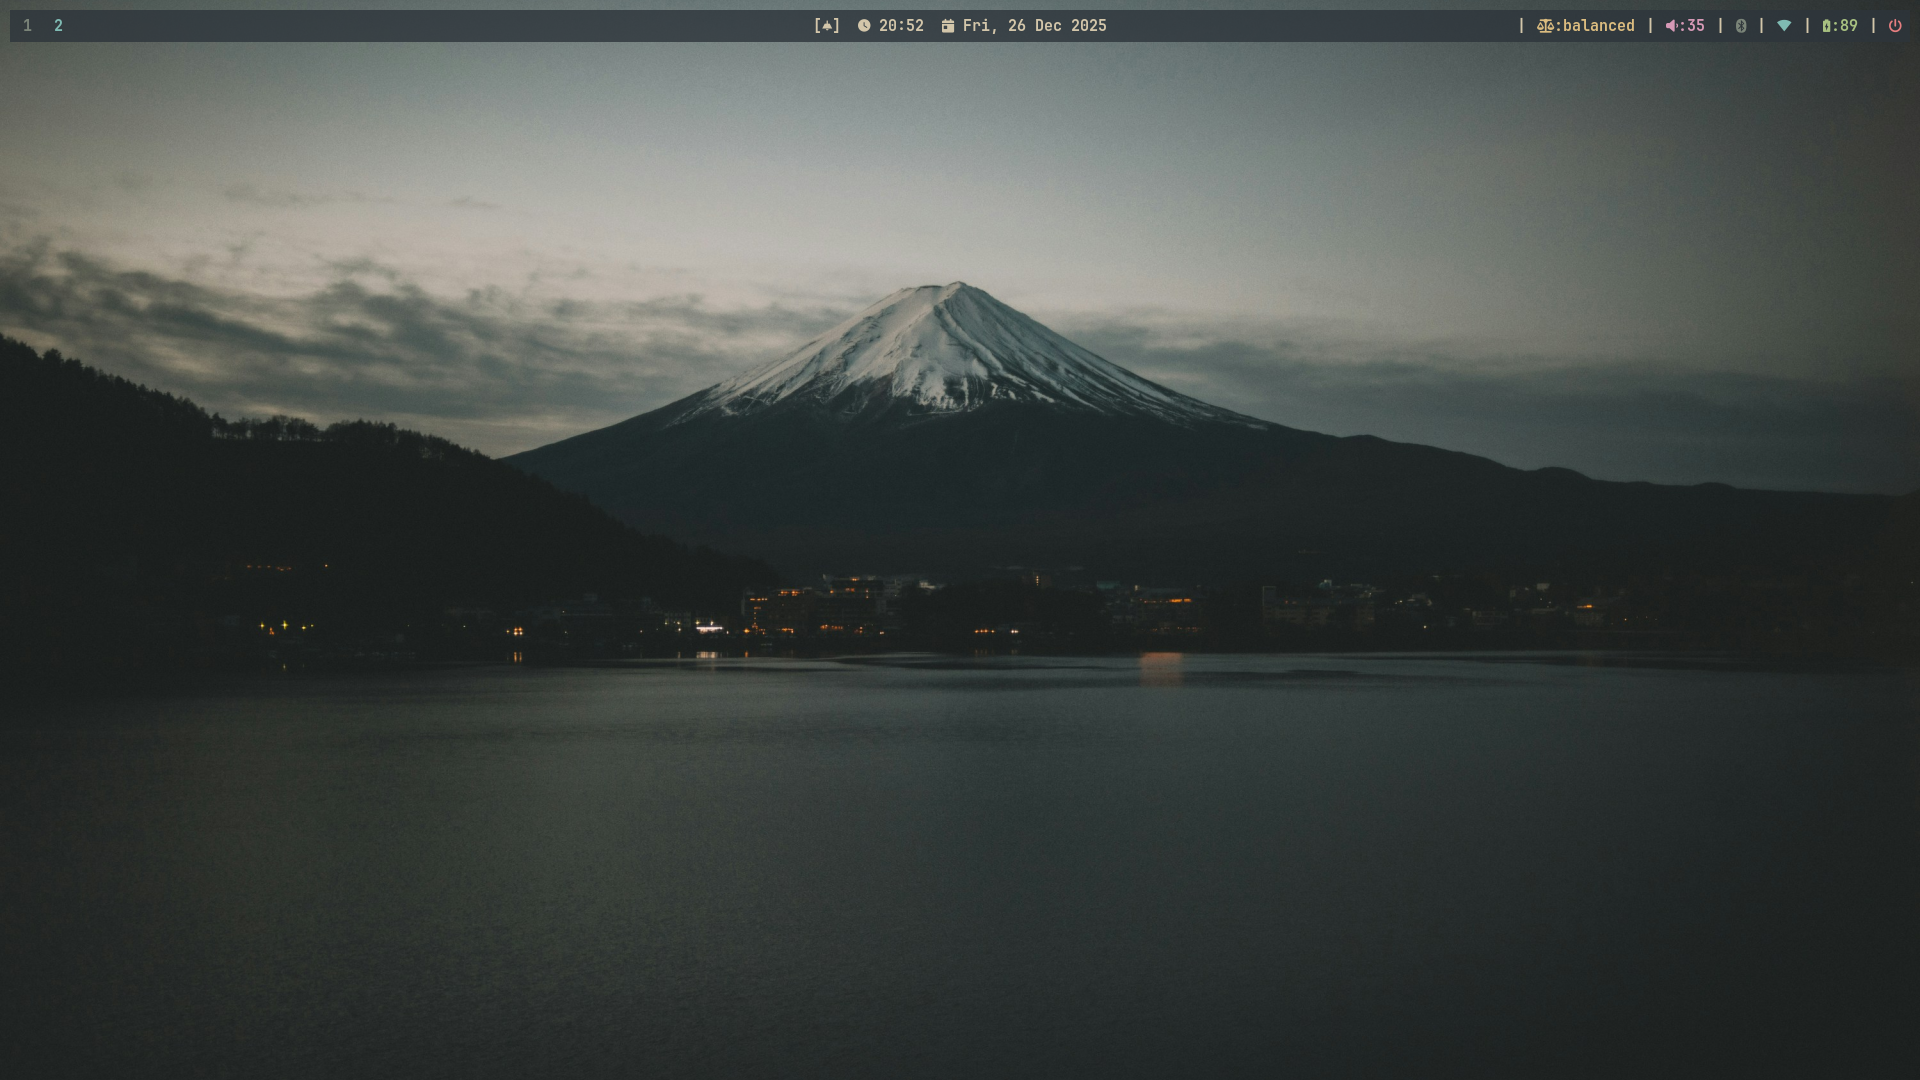
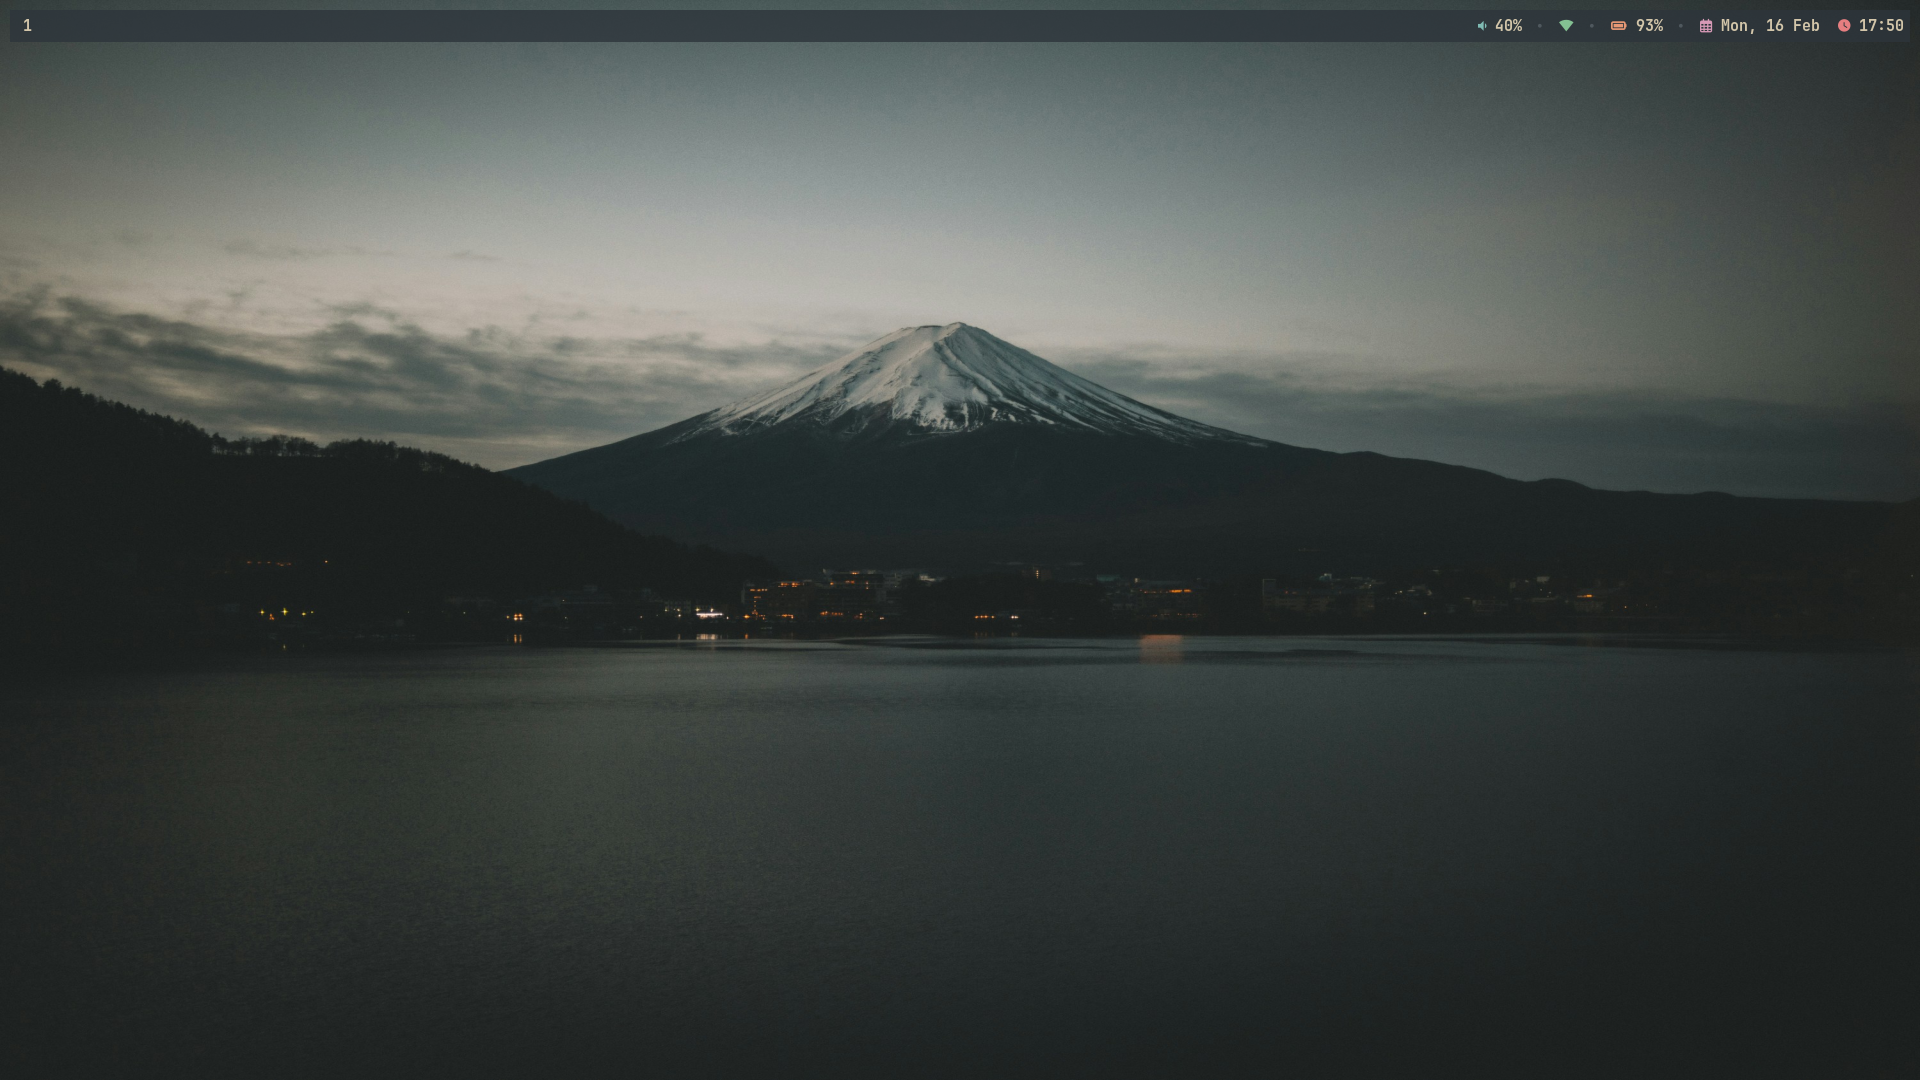
update and fix configs

diff --git a/README.md b/README.md
@@ -17,8 +17,7 @@ The table below contains all the programs used in this configuration.
 | Font             | [JetBrainsMono](https://www.jetbrains.com/lp/mono/)         |
 | Status Bar       | [Waybar](https://github.com/Alexays/Waybar)                 |
 | Launcher         | [Rofi](https://github.com/davatorium/rofi)                  |
-| File Manager     | [Lf](https://github.com/gokcehan/lf)                        |
+| File Manager     | [Yazi](https://github.com/sxyazi/yazi)                      |
 | Text Editor      | [Neovim](https://github.com/neovim/neovim)                  |
 | Notifications    | [dunst](https://github.com/dunst-project/dunst)             |
-| Lockscreen       | [Hyprlock](https://github.com/hyprwm/hyprlock)              |
 | Cursor           | [Rose-pine](https://github.com/ndom91/rose-pine-hyprcursor) |
